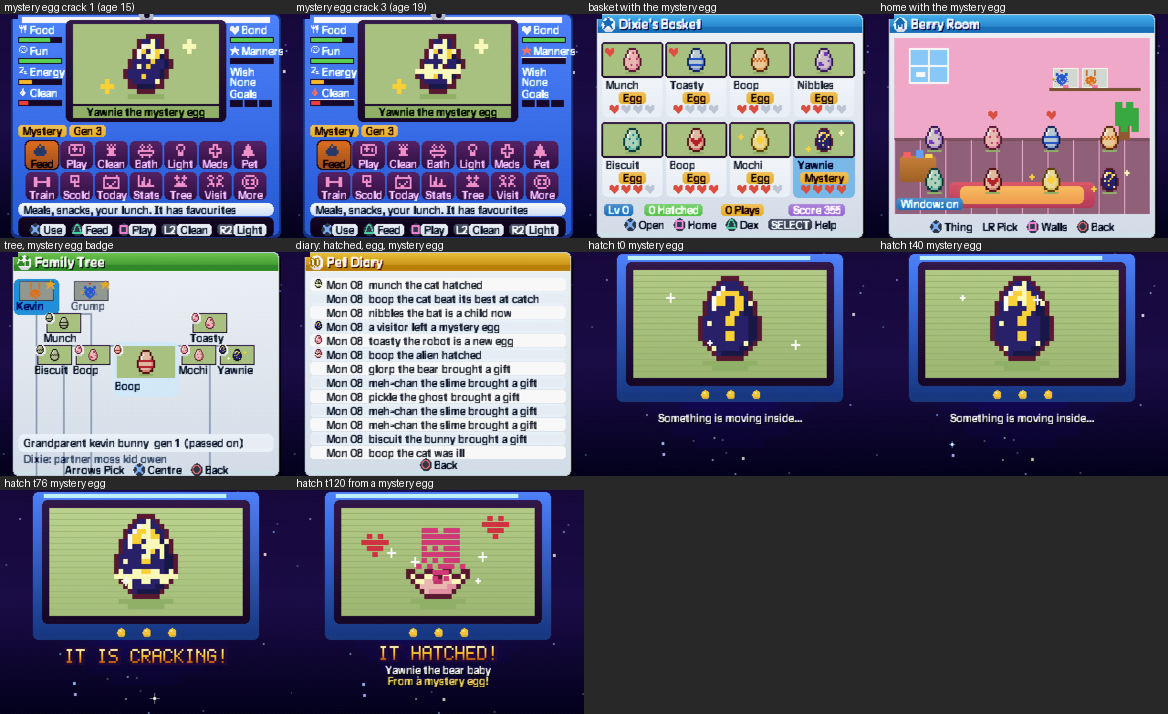
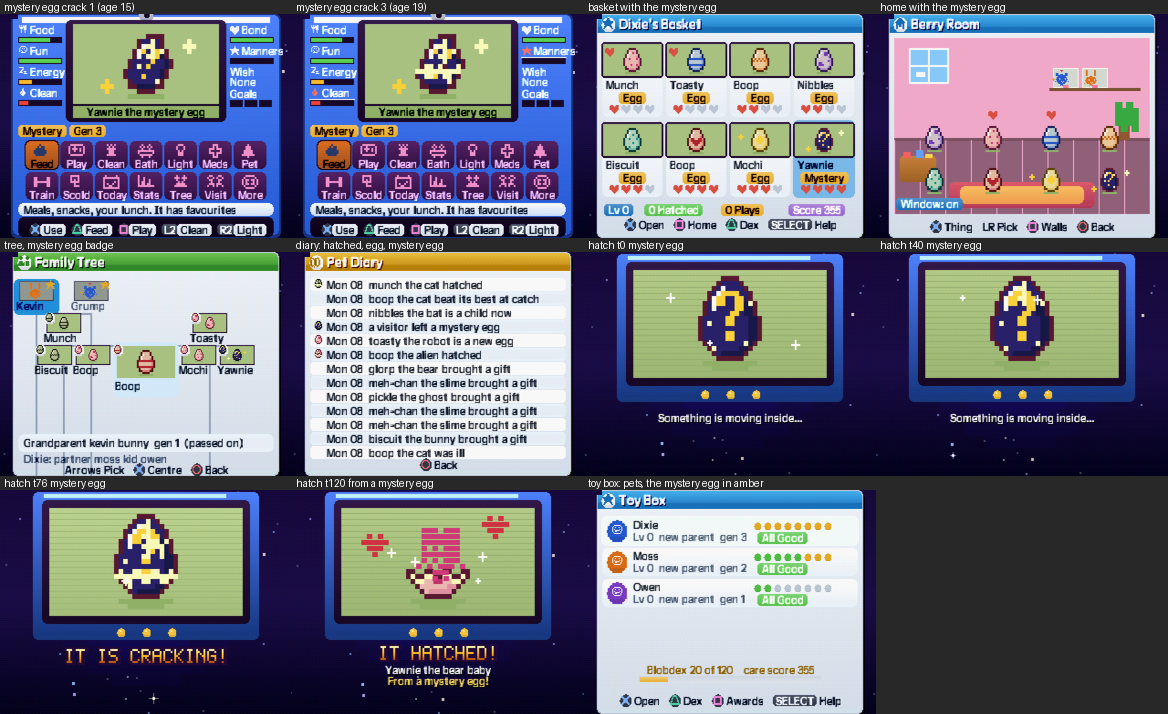
Boreagotchi egg leftovers: Dreamcast shot, toy box tile, docs, roadmap
Claude-Session: https://claude.ai/code/session_01HmRg38Ho1eHKsYp7LCd8R6

Changed region(s): [[0.4932, 0.6779, 0.7705, 1.0]]

diff --git a/test/gegg_tab.h b/test/gegg_tab.h
@@ -46,3 +46,4 @@
 {V_HATCH,0,40,0x88}, // hatch t40 mystery egg
 {V_HATCH,0,76,0x88}, // hatch t76 mystery egg
 {V_HATCH,0,120,0x88}, // hatch t120 from a mystery egg
+{V_BOX,0,0,0x88}, // toy box: pets, the mystery egg in amber

diff --git a/docs/ROADMAP.md b/docs/ROADMAP.md
@@ -31,7 +31,8 @@ Detail for each port: DSI_ROADMAP.md (DS), DREAMCAST.md (Dreamcast), PS1_PERFORM
 - [ ] Clock card is not kept between frames (no packet room).
 - [x] Boreagotchi 3 (save v48): needs (energy, clean), moodlets, wishes, goals and streaks, 8 mini-games (WHACK is the newest) with skills, scripted first day, surprises, 32-line diary. See docs/GOTCHI_V48.md. Old v40/v41 saves load (test/oldsave.sh). Left: v45-47 save test on a real card, DC port of the new rules, sounds are pitched voices only. DS port done at D64 (bore2_dsi_d64.nds, see docs/DSI_ROADMAP.md): everything except tantrums, 20 kinds / 6 forms and per-pet memories by id. BRAINS manners bonus in train is done.
 - [x] Boreagotchi first-run art on PS1 (title, OPEN IT! gift box and toy reveal, egg card, hatching, new starfield, cue sounds). See docs/GOTCHI_V48.md and docs/GOTCHI_FIRST_ART.md; shots docs/gotchi_first_after_1.png to _3.png. Left: the DS port (reuse src/gotchi_first_art.h or docs/gotchi_first_art.json), the egg you carry in the pet view still uses the old dot art, sounds are pitched voices only (no new samples), Dreamcast not checked.
-- [x] Boreagotchi eggs redrawn on PS1 (pet view, basket, home, tree, guide, toy LCD, hatching: one design, three sizes, seven patterns, crack stages, wobble; data in docs/gotchi_first_art.json for the DS). Shots docs/gotchi_egg_before_*.png and gotchi_egg_after_*.png, notes in docs/GOTCHI_V48.md and docs/GOTCHI_FIRST_ART.md. Left: splice the same eggs into the DS Boreagotchi (wip-gotchi), and the 3D toy prop's 8x8 egg texture (items) still uses the old picture.
+- [x] Boreagotchi eggs redrawn on PS1 (pet view, basket, home, tree, guide, toy LCD, hatching: one design, three sizes, seven patterns, crack stages, wobble; data in docs/gotchi_first_art.json for the DS). Shots docs/gotchi_egg_before_*.png and gotchi_egg_after_*.png, notes in docs/GOTCHI_V48.md and docs/GOTCHI_FIRST_ART.md. Left: splice the same eggs into the DS Boreagotchi (wip-gotchi), and the 3D toy prop's 8x8 egg texture (items) still uses the old picture (that prop, the mystery egg's own look, TREE and DIARY egg glyphs and the AUTO_GVIEWS link are now done, see the next line).
+- [x] Boreagotchi egg leftovers on PS1 (docs/GOTCHI_V48.md, 'Eggs, what was left'): 3D toy-dock egg redrawn from the tool data, mystery egg with its own look and no save change (form bit 7), egg and hatch glyphs on TREE and DIARY, a crash with the mystery pattern fixed, the AUTO_GVIEWS sweep links and was run, old saves v40-47 and 8 MB boot re-checked, Dreamcast build and shots. Shots docs/gotchi_egg_left_*.png. Left: the DS port.
 - [x] Sims-style fonts and centred text on PS1 and Dreamcast (save v49): six styles (BODY, READ, HEAD, NUM, FUN, BIG) in `assets/FONTS.BIN`, font-select API, measure-then-centre helper (`gfx_text_box`, `ui_text_box`), friendly Title/Sentence case, OPTIONS > SCREEN > TEXT LOOK (FRIENDLY / EXTRA CLEAR / CAPITALS), Sims-style toasts, no blinking title hint, logo left out behind options (their text was being cut off by the packet buffer). Shots docs/fonts_*.png, notes docs/FONTS.md. Left: a pass over the overlay screens not shot (shops, party, super, dog, prison, space, farm, skysea, paradise), the thought bubble tail, align the DS with FONTS.md.
 - [x] CREATE A BORE follows The Sims 3 (3DS) Create-A-Sim on PS1 and Dreamcast (CREATE.OVL, 16 KB, 22,440 bytes still free past _end on 2 MB; no save change): welcome card, 7 steps with a rail and a step count (BASICS, LOOKS, HAIR, CLOTHES, STYLE, PERSONALITY, SUMMARY), category tabs (L1 R1), one choice at a time (left/right), swatches, sliders, dice (per row, per step, whole Bore), name keyboard, turning preview with a camera per step (body, face, head, chest, legs, feet), BACK / NEXT, summary and keep question. Notes docs/CAS_SIMS3DS_WORKFLOW.md (portable, section 9 = the hook for the traits engine: `cas_pick`), shots docs/cas_ps1_*.png, docs/cas_dc_*.png, before docs/cas_ps1_before.png. Left: the traits engine pickers (placeholder bars now), a real Dreamcast pad pass, outfit categories like everyday/formal/sleep.
 - [ ] Old-save load test for the Boreagotchi save (version 45) and REAL TIME (version 44) on a real memory card.

diff --git a/docs/GOTCHI_V48.md b/docs/GOTCHI_V48.md
@@ -45,3 +45,15 @@ Shots: before docs/gotchi_egg_before_1.png to _3.png, after docs/gotchi_egg_afte
 - Data: src/gotchi_first_art.h holds the plain egg per size, the pattern runs and the crack cells (stored as whole sprites, seven patterns in three sizes overflowed the overlay by 48 bytes in a test build); `egg_make` in src/gotchi_ui.c puts one together in a 300-byte buffer. docs/gotchi_first_art.json also holds every whole egg and crack overlay for the DS port.
 - Test hooks (the AUTO_GVIEWS sweep needs about 470 bytes of its own game set-ups left out to link: it was run that way, every screen fine): build with `-DAUTO_GOTCHI=0 -DAUTO_GSEQ -DAUTO_GEGG` and run `test/gegg.sh TAG` (table test/gegg_tab.h; the optional columns x and a make every slot an egg of its own pattern and set an egg's age); it writes docs/gotchi_egg_TAG_N.png through test/gseq.sh (new variables TABF and PFX).
 - Size: GOTCHI.OVL 150,276 bytes (+3,000 bss = 153,276 of 156,096; was 149,156 + 2,632). Still 76 sectors, so the disc layout is the same. Resident RAM unchanged: 11,688 bytes free past _end on 2 MB (0x80200000 - 0x801fd258). 8 MB boots (DS8MB=1, to the title). Save format unchanged (VERSION 48; an egg's pattern comes from its kind and colour, its cracks from its age, nothing new is stored).
+
+## Eggs, what was left (done)
+
+Shots: docs/gotchi_egg_left_1.png to _4.png (47 tiles, every egg screen incl. the mystery egg and the toy box), gotchi_egg_left_prop_build.png and _prop_floor.png (the 3D toy dock, 3x), gotchi_egg_left_dc.png (Dreamcast).
+
+- 3D prop `g_egg` (8x8, the Gotchi Dock in items): now made by tools/make_items_gotchi.py from the same tool data (tools/make_gotchi_first.py `item_tex`: the toy's LCD egg, heart pattern, pink, same colours). Only the dock uses it. Test: build -DAUTO_GOTCHI=23 (floor close-up) or 21 (build mode on it), script test/gegg_prop.txt.
+- Mystery egg: its own look (night blue body, question mark and gold stars, a gentle twinkle) in the pet view, LCD, hatching ("FROM A MYSTERY EGG!"), basket, home, tree, toy-box chip and the toy card. Stored without a save change: bit 7 of the egg's existing `form` byte (`gx_event_do` sets it; eggs never use `form`); the bit is dropped when the baby grows to a child (gotchi.c). Old saves have 0 there, so they load as plain eggs. VERSION unchanged (the traits helper's 49 to 50 is not touched). The diary says "A VISITOR LEFT A MYSTERY EGG" (kind GD_EGG, sub 1).
+- Bug found: the pattern table had no slot for the mystery pattern (a tree with a mystery egg crashed): fixed (`fsPat[3][FS_EGG_N + 1]`).
+- TREE and DIARY: a little egg glyph (`f_glyph`) on a round tag beside a relative that is still an egg (the mystery one in its own look), and in front of "new egg", "mystery egg" and "hatched" diary lines.
+- AUTO_GVIEWS: the hook is table driven (a {step, variable, value} list), games start through the real `start_game`, and CMakeLists.txt builds the overlay with -Os when the flags contain AUTO_GVIEWS, so the full sweep links unmodified (155,108 of 156,096). The shipped build is unchanged. Sweep: `test/gviews.sh 9600 120` with SKIP=8; all 60 screens incl. the 8 games shot, fine.
+- Checks on the final tree: old saves v40 to v47 load (oldsave.sh, oldsave2.sh); 8 MB (DS8MB=1) boots to the title. Dreamcast: the shared src builds (AUTO_GSEQ/AUTO_GEGG test build, flycast), pet view with eggs and the mystery egg, hatching, basket, tree, diary and the toy box shot fine; ps1_check.sh: `_end` 0x801fcbd8, image sha1 a031d03285efb252 (changed, expected: shared src).
+- Size (release): GOTCHI.OVL 151,992 bytes (+2,520 bss = 154,512 of 156,096). Free past _end on 2 MB: 13,352 bytes (0x80200000 - 0x801fcbd8; main grew since).
